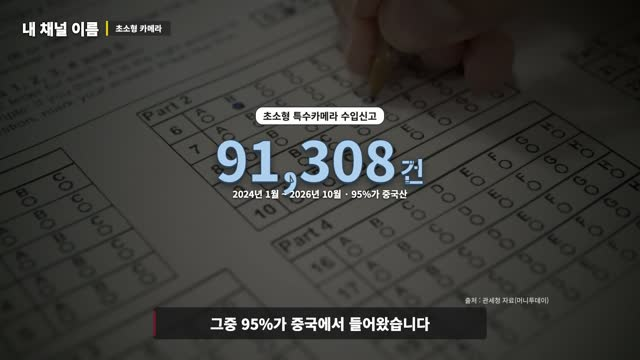
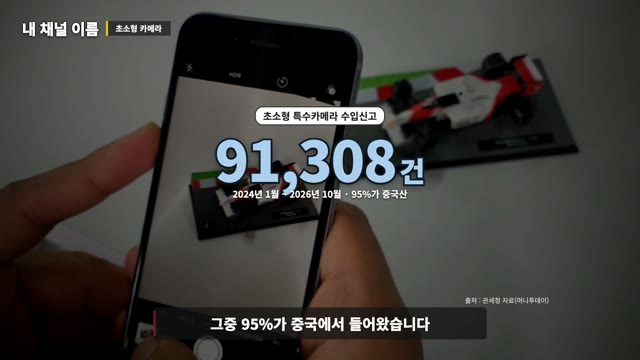
줌 효과 제거, 숫자 글자 겹침 수정, 용어 정의를 깔끔한 카드로 교체

diff --git a/scripts/templates_jh.py b/scripts/templates_jh.py
@@ -13,11 +13,11 @@ from common import SERIF, HAND, BUBBLE, POSTER
 
 BLUE, LBLUE, RED, YEL, NAVY = "#2f6fd6", "#dce8f8", "#e03a3a", "#f0e040", "#1f4aa8"
 OVERLAY_TYPES = {"darkcard", "tanbox", "number", "faded", "bubble", "headbar", "callout", "pin", "kinetic", "stamp", "vsnum"}
-DARK_TYPES = {"glitch", "portrait"}
+DARK_TYPES = {"glitch", "define", "portrait"}
 
 JH_CSS = """
 @keyframes blurIn{from{opacity:0;filter:blur(12px)}to{opacity:1;filter:none}}
-@keyframes kb{from{transform:scale(1)}to{transform:scale(1.04)}}
+@keyframes kb{from{transform:none}to{transform:none}}  /* 줌 없음(오너 요청) */
 @keyframes tiltIn{from{opacity:0;filter:blur(8px);transform:perspective(1600px) rotateX(24deg) rotateY(-12deg) scale(.88)}
                   to{opacity:1;filter:none;transform:none}}
 @keyframes growX{from{transform:scaleX(0)}to{transform:scaleX(1)}}
@@ -279,7 +279,7 @@ def number(si, g, at, ctx):
     css = f""".nwrap{{position:absolute;left:0;right:0;top:{g.get('y', .42) * 800:.0f}px;transform:translateY(-50%);text-align:center}}
     .nl{{display:inline-block;background:#fff;border:3px solid #333;border-radius:24px;padding:4px 22px;font-size:30px;font-weight:700;color:#222;margin-bottom:10px}}
     .nn{{font-size:{g.get('size', 170)}px;font-weight:900;color:{col};letter-spacing:-4px;line-height:1.05;
-        text-shadow:0 3px 0 #345,0 6px 0 #234,0 10px 24px rgba(0,0,0,.55);-webkit-text-stroke:3px #2b3f57;animation:blurIn .3s {t0:.2f}s both}}
+        text-shadow:0 8px 24px rgba(0,0,0,.5);-webkit-text-stroke:12px #14202e;paint-order:stroke fill;animation:blurIn .3s {t0:.2f}s both}}
     .nn small{{font-size:.5em;letter-spacing:0;margin-left:10px}}
     .ns{{font-size:28px;color:#fff;font-weight:700;text-shadow:0 2px 6px rgba(0,0,0,.8)}}"""
     num = count(g["value"], t0 + .1, g.get("count_seconds", .8), frm=g.get("from", 0))
@@ -400,13 +400,13 @@ def vsnum(si, g, at, ctx):
     memo = f"<div class=vsM style='animation:fadeIn2 .3s {tG + .2:.2f}s both'>{esc(g['memo'])}</div>" if g.get("memo") else ""
     css = f""".vsw{{position:absolute;left:0;right:0;top:{g.get('y', .5) * 800:.0f}px;transform:translateY(-50%);display:flex;align-items:flex-end;justify-content:center;gap:34px}}
     .vsS{{text-align:center}}.vsC{{display:inline-block;background:#fff;border:3px solid #333;border-radius:22px;padding:2px 22px;font-size:34px;font-weight:700;color:#222}}
-    .vsN{{font-size:150px;font-weight:900;letter-spacing:-4px;line-height:1.05;-webkit-text-stroke:3px #2b3f57;text-shadow:0 4px 0 #2b3f57,0 8px 20px rgba(0,0,0,.35)}}
+    .vsN{{font-size:150px;font-weight:900;letter-spacing:-2px;line-height:1.05;-webkit-text-stroke:12px #14202e;paint-order:stroke fill;text-shadow:0 8px 24px rgba(0,0,0,.45)}}
     .vsN small{{font-size:.62em;letter-spacing:-2px}}
-    .vsG{{font-size:110px;font-weight:900;color:#3a3f47;line-height:1.1;position:relative}}
-    .vsM{{position:absolute;left:50%;top:-70px;translate:-50% 0;font-family:{HAND};font-size:58px;color:#d98a00;white-space:nowrap;rotate:-6deg}}"""
-    ti, sr = head(g, tL)
-    body = (f"<div class=dim style='background:rgba(255,255,255,.55);animation:fadeIn2 .3s {tL:.2f}s both'></div><div class=stage>{ti}"
-            f"<div class=vsw>{side(L, tL, '#8fc0ea')}<div class=vsG style='animation:popO .25s {tG:.2f}s both'>&gt;{memo}</div>{side(R, tR, '#aeb4bc')}</div>{sr}</div>")
+    .vsG{{font-size:110px;font-weight:900;color:#fff;-webkit-text-stroke:10px #14202e;paint-order:stroke fill;line-height:1.1;position:relative}}
+    .vsM{{position:absolute;left:50%;top:-78px;translate:-50% 0;font-size:34px;font-weight:800;color:#111;-webkit-text-stroke:0;paint-order:normal;background:#ffd93b;border-radius:30px;padding:6px 22px;white-space:nowrap;box-shadow:0 4px 10px rgba(0,0,0,.3)}}"""
+    ti, sr = head(g, tL, white=True)
+    body = (f"<div class=dim style='background:rgba(0,0,0,.55);animation:fadeIn2 .3s {tL:.2f}s both'></div><div class=stage>{ti}"
+            f"<div class=vsw>{side(L, tL, '#7cc0ff')}<div class=vsG style='animation:popO .25s {tG:.2f}s both'>&gt;{memo}</div>{side(R, tR, '#ff6b6b')}</div>{sr}</div>")
     return css, body, "overlay"
 
 # ---------------------------------------------------------------- 19 아이콘 흐름도
@@ -466,19 +466,20 @@ def history(si, g, at, ctx):
     ti, sr = head(g, t0)
     return css, paper_wrap(f"{ti}<div class=hw><div class=hline></div>{''.join(out)}</div>", sr, ctx, t0), "paper"
 
-# ---------------------------------------------------------------- 23 용어 정의 (글리치 배경)
+# ---------------------------------------------------------------- 23 용어 정의 (어두운 단색 + 노란 밑줄)
 def glitch(si, g, at, ctx):
+    """용어 정의 카드. 예전 이름 glitch 유지(=define). 보라 글리치 배경은 오너가 싫어해 없앰."""
     t0 = at(si, g.get("at", 0))
-    css = f""".gbg{{position:absolute;inset:0;overflow:hidden;background:linear-gradient(180deg,#2b2140,#3b2b55 50%,#241a36)}}
-    .gbg:before{{content:'';position:absolute;inset:-240px 0 0 0;background:repeating-linear-gradient(0deg,rgba(255,255,255,.07) 0 2px,transparent 2px 6px),
-       repeating-linear-gradient(0deg,rgba(180,140,255,.18) 0 18px,transparent 18px 60px);animation:scan 2s linear infinite}}
-    .gbg i{{position:absolute;left:-5%;width:110%;background:rgba(200,180,255,.22);animation:jitter .6s steps(4) infinite}}
-    .gd{{position:absolute;left:40px;bottom:60px;right:40px;color:#fff}}
-    .gd h2{{font-size:72px;font-weight:900;letter-spacing:-1px;animation:blurIn .3s {t0:.2f}s both}}
-    .gd p{{margin-top:12px;font-size:32px;line-height:1.5;font-weight:500;animation:fadeIn2 .4s {t0 + .35:.2f}s both;word-break:keep-all}}"""
-    bands = "".join(f"<i style='top:{y}%;height:{h}px;animation-delay:-{k * .13:.2f}s'></i>" for k, (y, h) in enumerate([(18, 10), (37, 4), (52, 16), (71, 6), (84, 3)]))
-    return css, (f"<div class=gbg>{bands}</div><div class=stage><div class=gd><h2>{esc(g['term'])}</h2>"
-                 f"<p>{rich(esc(g['definition']), '#ff9f3a')}</p></div></div>"), "dark"
+    css = f""".gbg{{position:absolute;inset:0;background:radial-gradient(ellipse at 30% 40%,#2a2f38,#0e1014 70%)}}
+    .gd{{position:absolute;left:60px;right:60px;top:50%;translate:0 -50%;color:#fff}}
+    .gd small{{display:block;font-size:30px;font-weight:700;color:#bfc6d0;margin-bottom:10px;animation:fadeIn2 .3s {t0:.2f}s both}}
+    .gd h2{{display:inline-block;font-size:86px;font-weight:900;letter-spacing:-1px;animation:blurIn .3s {t0:.2f}s both}}
+    .gd .ul{{height:12px;width:100%;background:#f0e040;margin-top:6px;transform-origin:left;animation:growX .4s {t0 + .25:.2f}s both}}
+    .gd p{{margin-top:34px;font-size:40px;line-height:1.5;font-weight:500;animation:fadeIn2 .4s {t0 + .5:.2f}s both;word-break:keep-all}}"""
+    lab = f"<small>{esc(g['label'])}</small>" if g.get("label") else "<small>용어 정리</small>"
+    return css, (f"<div class=gbg></div><div class=stage><div class=gd>{lab}<div style='display:inline-block'><h2>{esc(g['term'])}</h2><div class=ul></div></div>"
+                 f"<p>{rich(esc(g['definition']), '#f0e040')}</p></div></div>"), "dark"
+define = glitch
 
 # ---------------------------------------------------------------- 24 키네틱 큰 글자 (실사 위)
 def kinetic(si, g, at, ctx):
@@ -494,7 +495,7 @@ def stamp(si, g, at, ctx):
 
 JH = {"table": table, "hbar": hbar, "line": line, "vbar": vbar, "darkcard": darkcard, "tanbox": tanbox, "statcards": statcards,
       "number": number, "faded": faded, "bubble": bubble, "circles": circles, "headbar": headbar, "callout": callout, "pin": pin,
-      "portrait": portrait, "vsnum": vsnum, "flow": flow, "history": history, "glitch": glitch, "kinetic": kinetic, "stamp": stamp}
+      "portrait": portrait, "vsnum": vsnum, "flow": flow, "history": history, "glitch": glitch, "define": define, "kinetic": kinetic, "stamp": stamp}
 DIM_CSS = ".dim{position:absolute;inset:0;background:rgba(0,0,0,.55)}"
 
 def is_light(scene):

diff --git a/scripts/assemble.py b/scripts/assemble.py
@@ -44,11 +44,8 @@ for si, (sc, d) in enumerate(zip(cfg["scenes"], durs), 1):
     inp = (["-loop", "1", "-t", f"{d}", "-i", str(bg)] if still else ["-stream_loop", "-1", "-t", f"{d}", "-i", str(bg)])
     if opaque_g:
         v = "[0:v]fps=30,setsar=1"
-    elif still:  # 픽사베이 사진: 칸 비율로 자른 뒤 천천히 확대(1.0→1.08)
-        n = int(d * FPS) + 1
-        v = (f"[0:v]{crop_filter(bg, sc.get('focus', .5))},scale={BW * 2}:{BH * 2},"
-             f"zoompan=z='1+0.08*on/{n}':x='iw/2-(iw/zoom/2)':y='ih/2-(ih/zoom/2)':d={n}:s={BW}x{BH}:fps={FPS},"
-             f"eq=brightness=-0.04,vignette=PI/5,setsar=1")
+    elif still:  # 픽사베이 사진: 칸 비율로 잘라 고정(줌 없음)
+        v = f"[0:v]{crop_filter(bg, sc.get('focus', .5))},fps={FPS},eq=brightness=-0.04,vignette=PI/5,setsar=1"
     else:
         v = f"[0:v]{crop_filter(bg, sc.get('focus', .5))},fps=30,eq=brightness=-0.06,vignette=PI/5,setsar=1"
     nin = 1

diff --git a/scripts/graphics_more.py b/scripts/graphics_more.py
@@ -9,7 +9,7 @@ EXTRA_CSS = """
 @keyframes slideUp{from{opacity:0;transform:translateY(60px)}to{opacity:1;transform:none}}
 @keyframes rowIn{from{clip-path:inset(0 100% 0 0)}to{clip-path:inset(0 0 0 0)}}
 @keyframes hl{from{background-size:0% 100%}to{background-size:100% 100%}}
-@keyframes zoomSlow{from{transform:scale(1)}to{transform:scale(1.08)}}
+@keyframes zoomSlow{from{transform:none}to{transform:none}}
 @property --n{syntax:'<integer>';inherits:false;initial-value:0}
 .cnt{counter-reset:n var(--n)}.cnt:before{content:counter(n)}
 .hl{background:linear-gradient(#ffe45c,#ffe45c) no-repeat 0 88%/0% 40%;padding:0 4px}

diff --git a/references/graphics.md b/references/graphics.md
@@ -10,7 +10,7 @@
 
 ## 흰 종이 슬라이드
 
-구겨진 흰 종이 배경. 내용 전체가 블러+페이드로 들어오고(0.35초) 데이터가 0.5~1초 안에 채워지며, 장면 내내 아주 느리게 확대됩니다. 이 위에서는 자막 바·소주제 이름표가 자동으로 회색이 됩니다.
+구겨진 흰 종이 배경. 내용 전체가 블러+페이드로 들어오고(0.35초) 데이터가 0.5~1초 안에 채워집니다(화면 줌은 없음). 이 위에서는 자막 바·소주제 이름표가 자동으로 회색이 됩니다.
 
 ### `table` — 흰 표
 
@@ -562,7 +562,7 @@
 
 ![숫자 대결](../docs/t/vsnum.jpg)
 
-흐린 실사 위 큰 숫자 두 개, 가운데 '>' + 손글씨 메모. 왼쪽 숫자 → '>' → 오른쪽 숫자 순서
+어둡게 깐 실사 위 큰 숫자 두 개(파랑·빨강, 글자 뒤 진한 테두리), 가운데 '>' + 노란 알약 메모. 왼쪽 숫자 → '>' → 오른쪽 숫자 순서
 
 ```json
 {
@@ -682,16 +682,16 @@
 }
 ```
 
-### `glitch` — 용어 정의
+### `define` — 용어 정의 (예전 이름 glitch도 됨)
 
-![용어 정의](../docs/t/glitch.jpg)
+![용어 정의](../docs/t/define.jpg)
 
-보라색 글리치(스캔라인·노이즈) 배경, 왼쪽 아래 큰 용어 + 설명
+어두운 단색 배경, 큰 용어에 노란 밑줄이 그어지고 아래에 설명이 나옴. `label`(작은 머리글, 기본 "용어 정리")
 
 ```json
 {
  "graphic": {
-  "type": "glitch",
+  "type": "define",
   "term": "AI 부정행위",
   "definition": "시험 중 챗GPT·스마트안경 같은 **인공지능 도구**를 써서 답을 얻는 부정행위."
  }

diff --git a/README.md b/README.md
@@ -34,7 +34,7 @@
 
 ### 흰 종이 슬라이드
 
-구겨진 흰 종이 배경. 내용 전체가 블러+페이드로 들어오고(0.35초) 데이터가 0.5~1초 안에 채워지며, 장면 내내 아주 느리게 확대됩니다. 이 위에서는 자막 바·소주제 이름표가 자동으로 회색이 됩니다.
+구겨진 흰 종이 배경. 내용 전체가 블러+페이드로 들어오고(0.35초) 데이터가 0.5~1초 안에 채워집니다(화면 줌은 없음). 이 위에서는 자막 바·소주제 이름표가 자동으로 회색이 됩니다.
 
 | <img src="docs/t/table.jpg" width="280"> | <img src="docs/t/hbar.jpg" width="280"> | <img src="docs/t/line.jpg" width="280"> |
 |---|---|---|
@@ -72,9 +72,9 @@
 
 실사 없이 자체 배경을 씁니다.
 
-| <img src="docs/t/portrait.jpg" width="280"> | <img src="docs/t/glitch.jpg" width="280"> |
+| <img src="docs/t/portrait.jpg" width="280"> | <img src="docs/t/define.jpg" width="280"> |
 |---|---|
-| **인물 인용** `portrait`<br>어두운 배경, 왼쪽 인물 사진(`pixabay_image`), 큰 따옴표와 인용문(**굵게**는 노랑), 손글씨 이름표 | **용어 정의** `glitch`<br>보라색 글리치(스캔라인·노이즈) 배경, 왼쪽 아래 큰 용어 + 설명 |
+| **인물 인용** `portrait`<br>어두운 배경, 왼쪽 인물 사진(`pixabay_image`), 큰 따옴표와 인용문(**굵게**는 노랑), 손글씨 이름표 | **용어 정의** `define`<br>어두운 단색 배경, 큰 용어에 노란 밑줄이 그어지고 설명이 나옴 |
 
 ### 실사 스톡 장면
 

diff --git a/references/style.md b/references/style.md
@@ -17,5 +17,5 @@
 - 막대: 제목·축 먼저, 막대가 아래에서 빠르게 자람(약 0.5초), 수치 태그는 아래→위로 닦이듯 등장. 내레이션 박자에 맞춰 막대별로
 - 인용: 글자가 한 자씩 타자 치듯, 배경 빛줄기는 천천히 회전
 - 카드: 하나씩 튀어나옴(살짝 커졌다 돌아오는 오버슛)
-- 실사: 약간 어둡게 + 가장자리 비네팅. 사진은 천천히 확대
+- 실사: 약간 어둡게 + 가장자리 비네팅. 화면 전체 줌(켄번스)은 쓰지 않음
 - 편집: 3~8초마다 화면 전환, 문장 사이 쉼 거의 없이 빠른 진행
